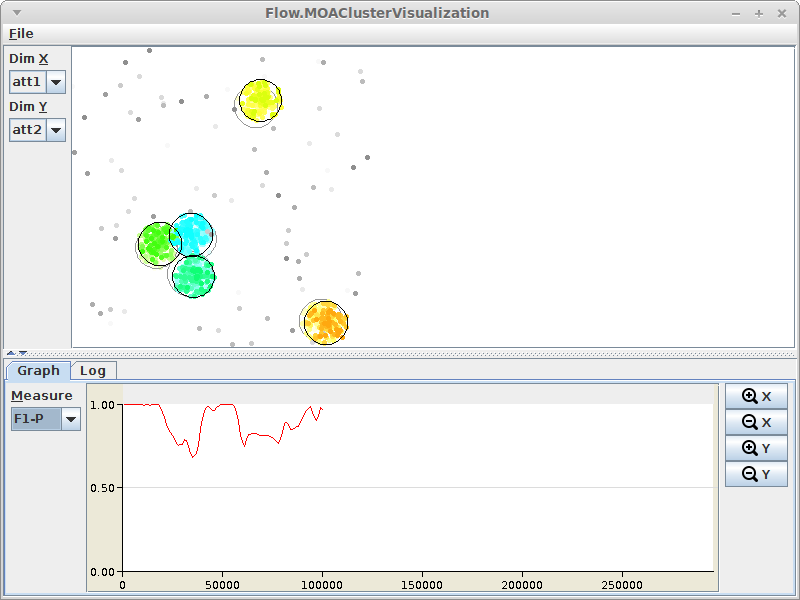
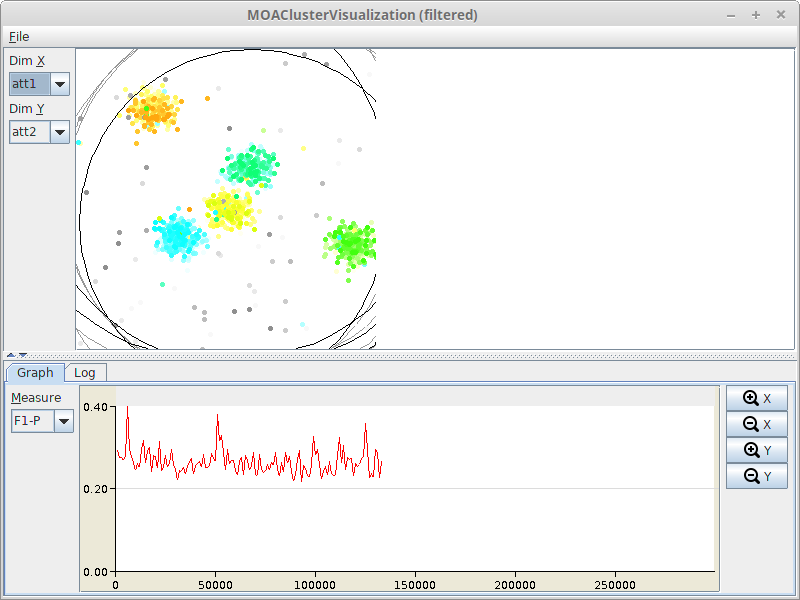
updated documentation and fixed flows to use stream generators instead of files (with invalid paths)

diff --git a/adams-moa/src/main/latex/adams-moa-manual/adams-moa-manual.tex b/adams-moa/src/main/latex/adams-moa-manual/adams-moa-manual.tex
@@ -46,7 +46,7 @@
 \center
 \begin{table}[b]
 	\begin{tabular}{c l l}
-		\parbox[c][2cm]{2cm}{\copyright 2011-2015} &
+		\parbox[c][2cm]{2cm}{\copyright 2011-2019} &
 		\parbox[c][2cm]{5cm}{\includegraphics[width=5cm]{images/coat_of_arms.pdf}} \\
 	\end{tabular}
 	\includegraphics[width=12cm]{images/cc.png} \\
@@ -211,20 +211,16 @@ At the moment, only cluster visualization is available in the flow\footnote{adam
 \clearpage
 \newpage
 \section{Filtering}
-Even though there is no filtering support in MOA at the time of writing, it is
-possible using WEKA's stream filters to filter data streams in MOA.
-You can use the \textit{WekaStreamFilter} transformer to apply one of WEKA's
-stream filters to the stream of \textit{weka.core.Instance} objects passing
-through.
+MOA has its own filtering framework, which can be used via the \textit{MOAFilter}
+transformer.
 
 In Figure \ref{moa-stream-filtering_flow} you can see a flow\footnote{adams-moa-filtering.flow} 
 that generates a data stream using the \textit{RandomRBFGenerator} class. It
 outputs a stream with 40 attributes and 4 class labels. This flow applies
-the \textit{DownSample} filter (only uses every nth attribute) to the stream
+the \textit{AddNoise} filter to the stream
 and plots the classifier performance, percentage correct and kappa, in a graph
-(see Figure \ref{moa-stream-filtering_output}). Three plots are generated: evaluation
-on the full attribute range, down-sampled with using only every 2nd and 4th
-attribute.
+(see Figure \ref{moa-stream-filtering_output}). For each, two plot streams are
+generated: using the original data and the noisy one.
 
 \begin{figure}[htb]
   \centering
@@ -240,9 +236,18 @@ attribute.
   \label{moa-stream-filtering_output}
 \end{figure}
 
+\clearpage
+\newpage
+\section{Conversions}
+The following conversions are available:
+\begin{tight_itemize}
+  \item \textit{MOAInstancesToWEKAInstances} -- converts MOA dataset to WEKA one
+  \item \textit{WEKAInstancesToMOAInstances} -- converts WEKA dataset to MOA one
+\end{tight_itemize}
+
 \chapter{Tools}
 The main interface for MOA is available from within ADAMS as well. You can
-find it under the \textit{MOA} menu. Figure \ref{moa-gui} shows a screenshot
+find it under the \textit{Machine learning} menu. Figure \ref{moa-gui} shows a screenshot
 of the user interface in action.
 \begin{figure}[htb]
   \centering
